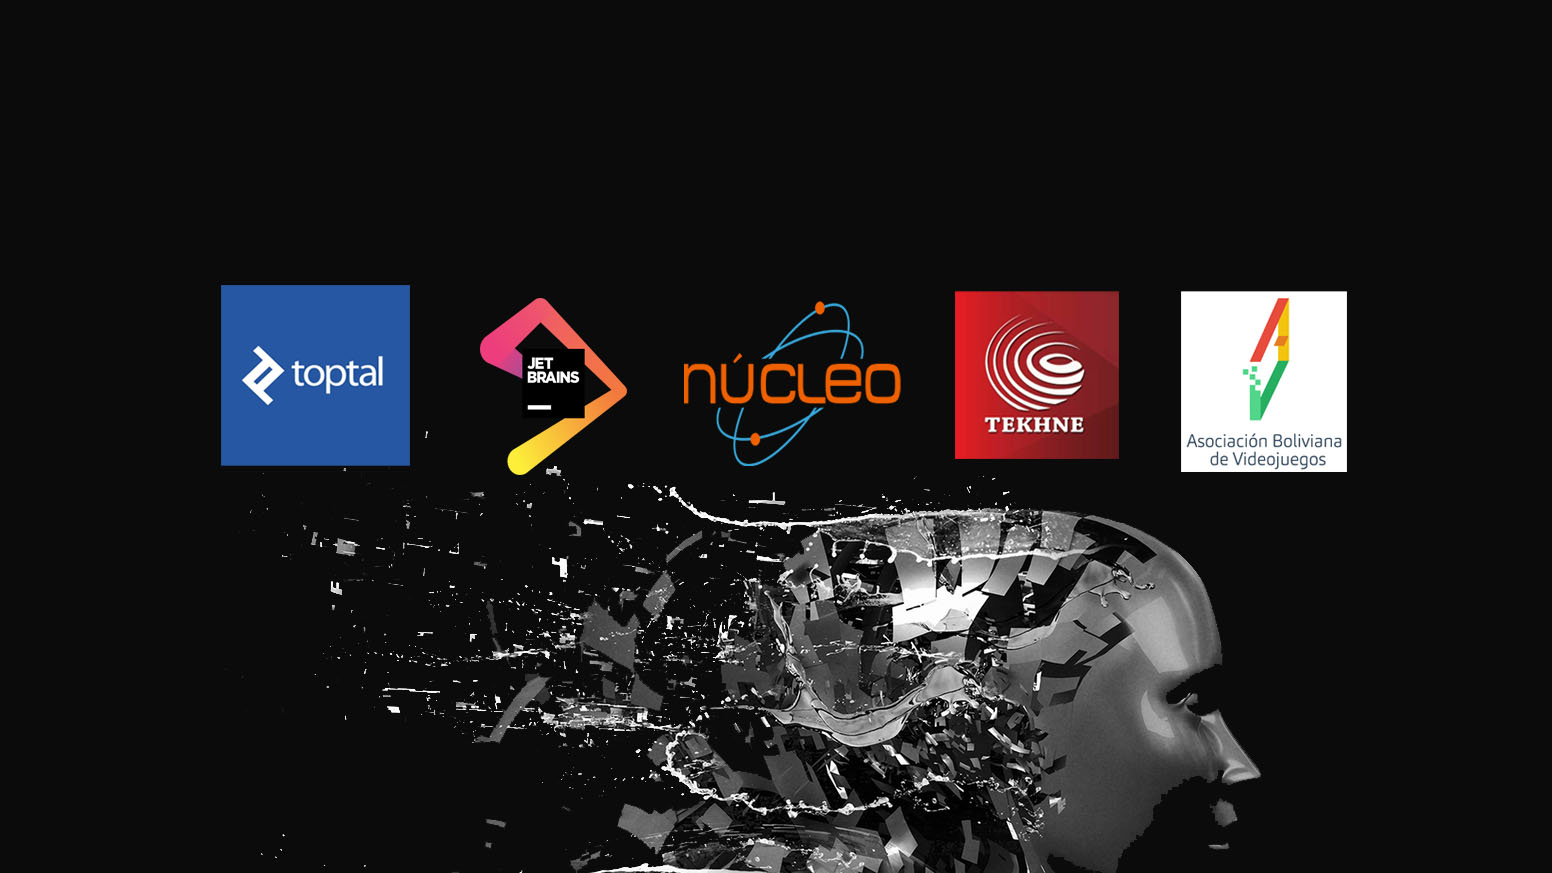
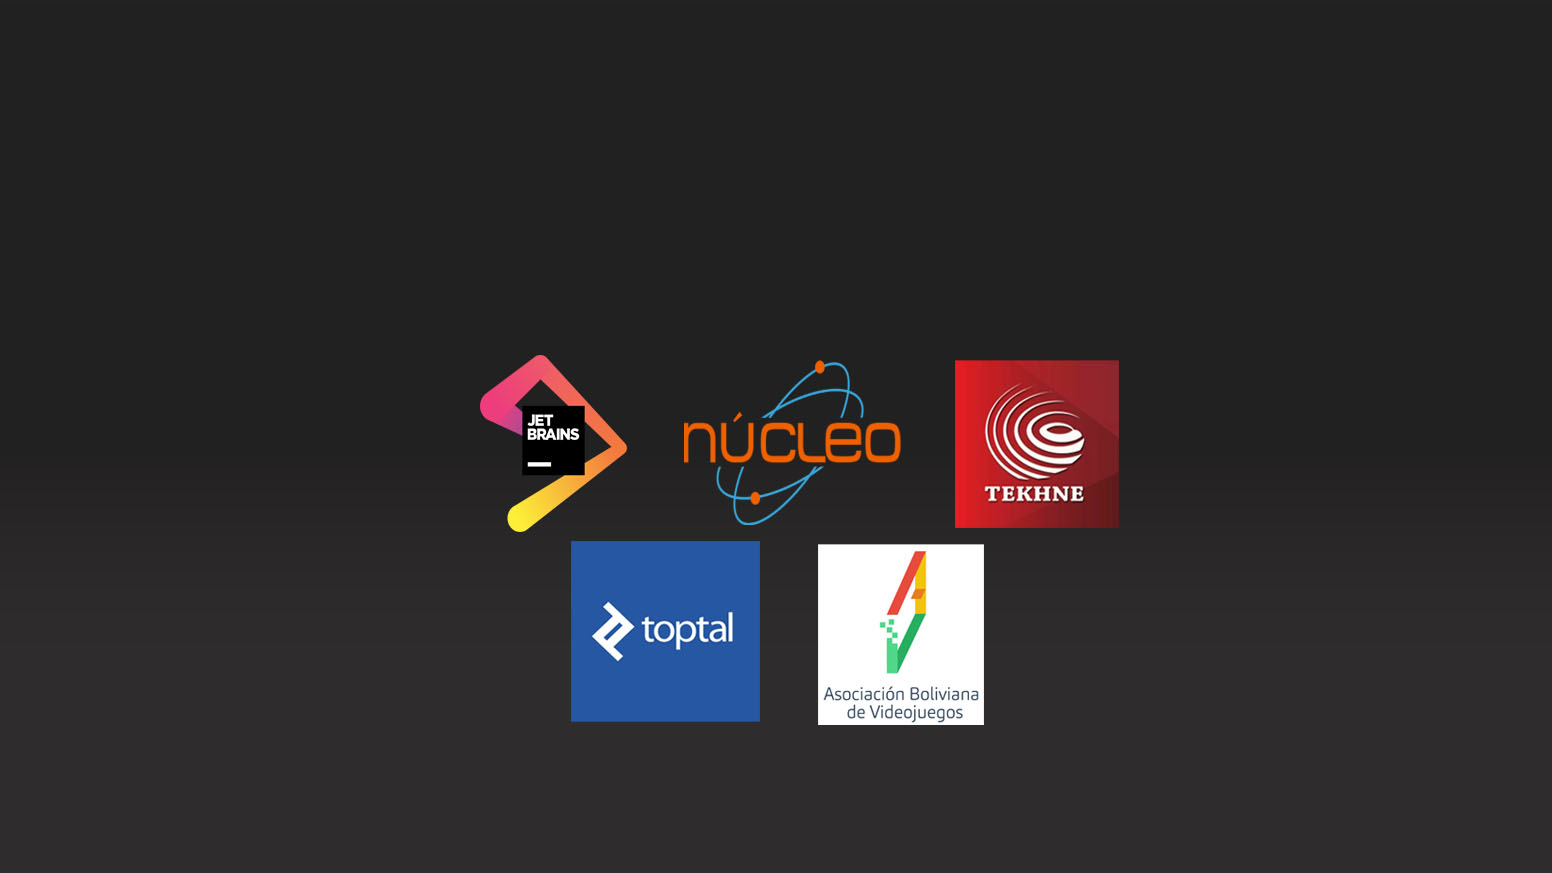
Se agrego las descripcionesen las actividadesy cambio en los auspicios

diff --git a/index.html b/index.html
@@ -35,8 +35,8 @@
         </div>
         <div class="item" style="background-image: url(images/slider/2a.jpg)">
           <div class="caption">
-            <h1 class="animated fadeInLeftBig">Más que un pinocho</h1>
-            <p class="animated fadeInRightBig">de adamantium</p>
+            <h1 class="animated fadeInLeftBig">20 de Mayo</h1>
+            <p class="animated fadeInRightBig">09:00 - 16:00</p>
           </div>
         </div>
         <div class="item" style="background-image: url(images/slider/3a.jpg)">
@@ -135,10 +135,12 @@
           <div class="col-sm-4 wow fadeInDown" data-wow-duration="1000ms" data-wow-delay="300ms">
             <div class="service-icon">
               <i class="fa fa-codepen"></i>
+             
+              <!-- <img src="images/ml.png">-->
             </div>
             <div class="service-info">
               <h3>Machine Learning</h3>
-              <p>Descripción</p>
+              <p>El aprendizaje automático es un tipo de inteligencia artificial (AI) que proporciona a las computadoras la capacidad de aprender, sin ser programadas explícitamente. </p>
             </div>
           </div>
           <div class="col-sm-4 wow fadeInDown" data-wow-duration="1000ms" data-wow-delay="450ms">
@@ -147,7 +149,7 @@
             </div>
             <div class="service-info">
               <h3>TensorFlow</h3>
-              <p>Descripción</p>
+              <p>TensorFlow es una biblioteca de software de código abierto para el cálculo numérico usando gráficos de flujo de datos.</p>
             </div>
           </div>
           <div class="col-sm-4 wow fadeInDown" data-wow-duration="1000ms" data-wow-delay="550ms">
@@ -155,8 +157,8 @@
               <i class="fa fa-cloud"></i>
             </div>
             <div class="service-info">
-              <h3>Deep Learning</h3>
-              <p>Descripción</p>
+              <h3>DeepLearning</h3>
+              <p>Aprendizaje profundo (en inglés, deep learning) es un conjunto de algoritmos de clase aprendizaje automático (en inglés, machine learning) que intenta modelar abstracciones de alto nivel en datos usando arquitecturas compuestas de transformaciones no lineales múltiples.</p>
             </div>
           </div>
           <div class="col-sm-4 wow fadeInUp" data-wow-duration="1000ms" data-wow-delay="650ms">
@@ -164,8 +166,8 @@
               <i class="fa fa-joomla"></i>
             </div>
             <div class="service-info">
-              <h3>Videojuegos</h3>
-              <p>Descripción</p>
+              <h3>AI en videojuegos</h3>
+              <p>Es la simulación de comportamientos de los personajes no manejados por el jugador: NPCs, enemigos, jefes finales, animales, etc.</p>
             </div>
           </div>
           <div class="col-sm-4 wow fadeInUp" data-wow-duration="1000ms" data-wow-delay="750ms">
@@ -174,7 +176,7 @@
             </div>
             <div class="service-info">
               <h3>Data Mining</h3>
-              <p>Descripción</p>
+              <p>El datamining (minería de datos), es el conjunto de técnicas y tecnologías que permiten explorar grandes bases de datos, de manera automática o semiautomática, con el objetivo de encontrar patrones repetitivos, tendencias o reglas que expliquen el comportamiento de los datos en un determinado contexto.</p>
             </div>
           </div>
           <div class="col-sm-4 wow fadeInUp" data-wow-duration="1000ms" data-wow-delay="850ms">
@@ -183,7 +185,7 @@
             </div>
             <div class="service-info">
               <h3>Redes Neuronales</h3>
-              <p>Descripción</p>
+              <p>Imitan el funcionamiento de las redes neuronales de los organismos vivos: un conjunto de neuronas conectadas entre sí y que trabajan en conjunto, sin que haya una tarea concreta para cada una.</p>
             </div>
           </div>
         </div>
